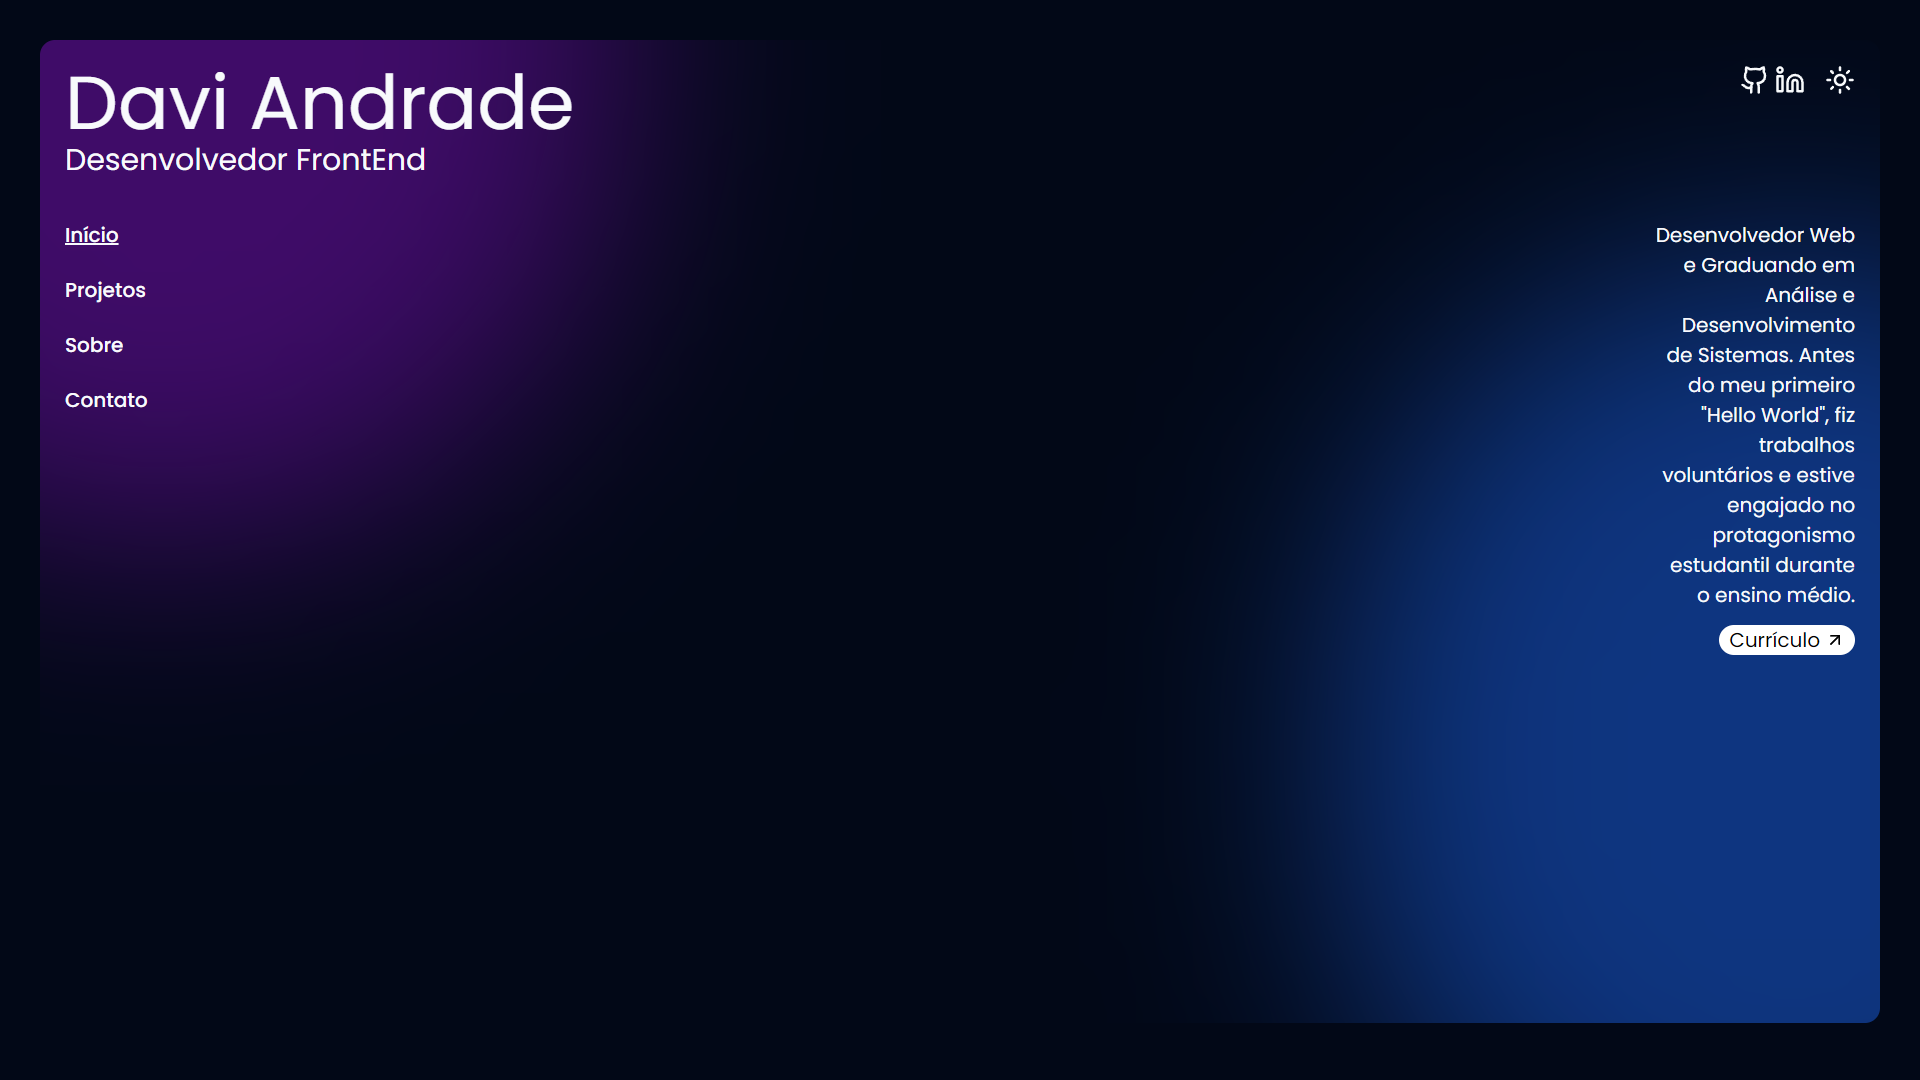
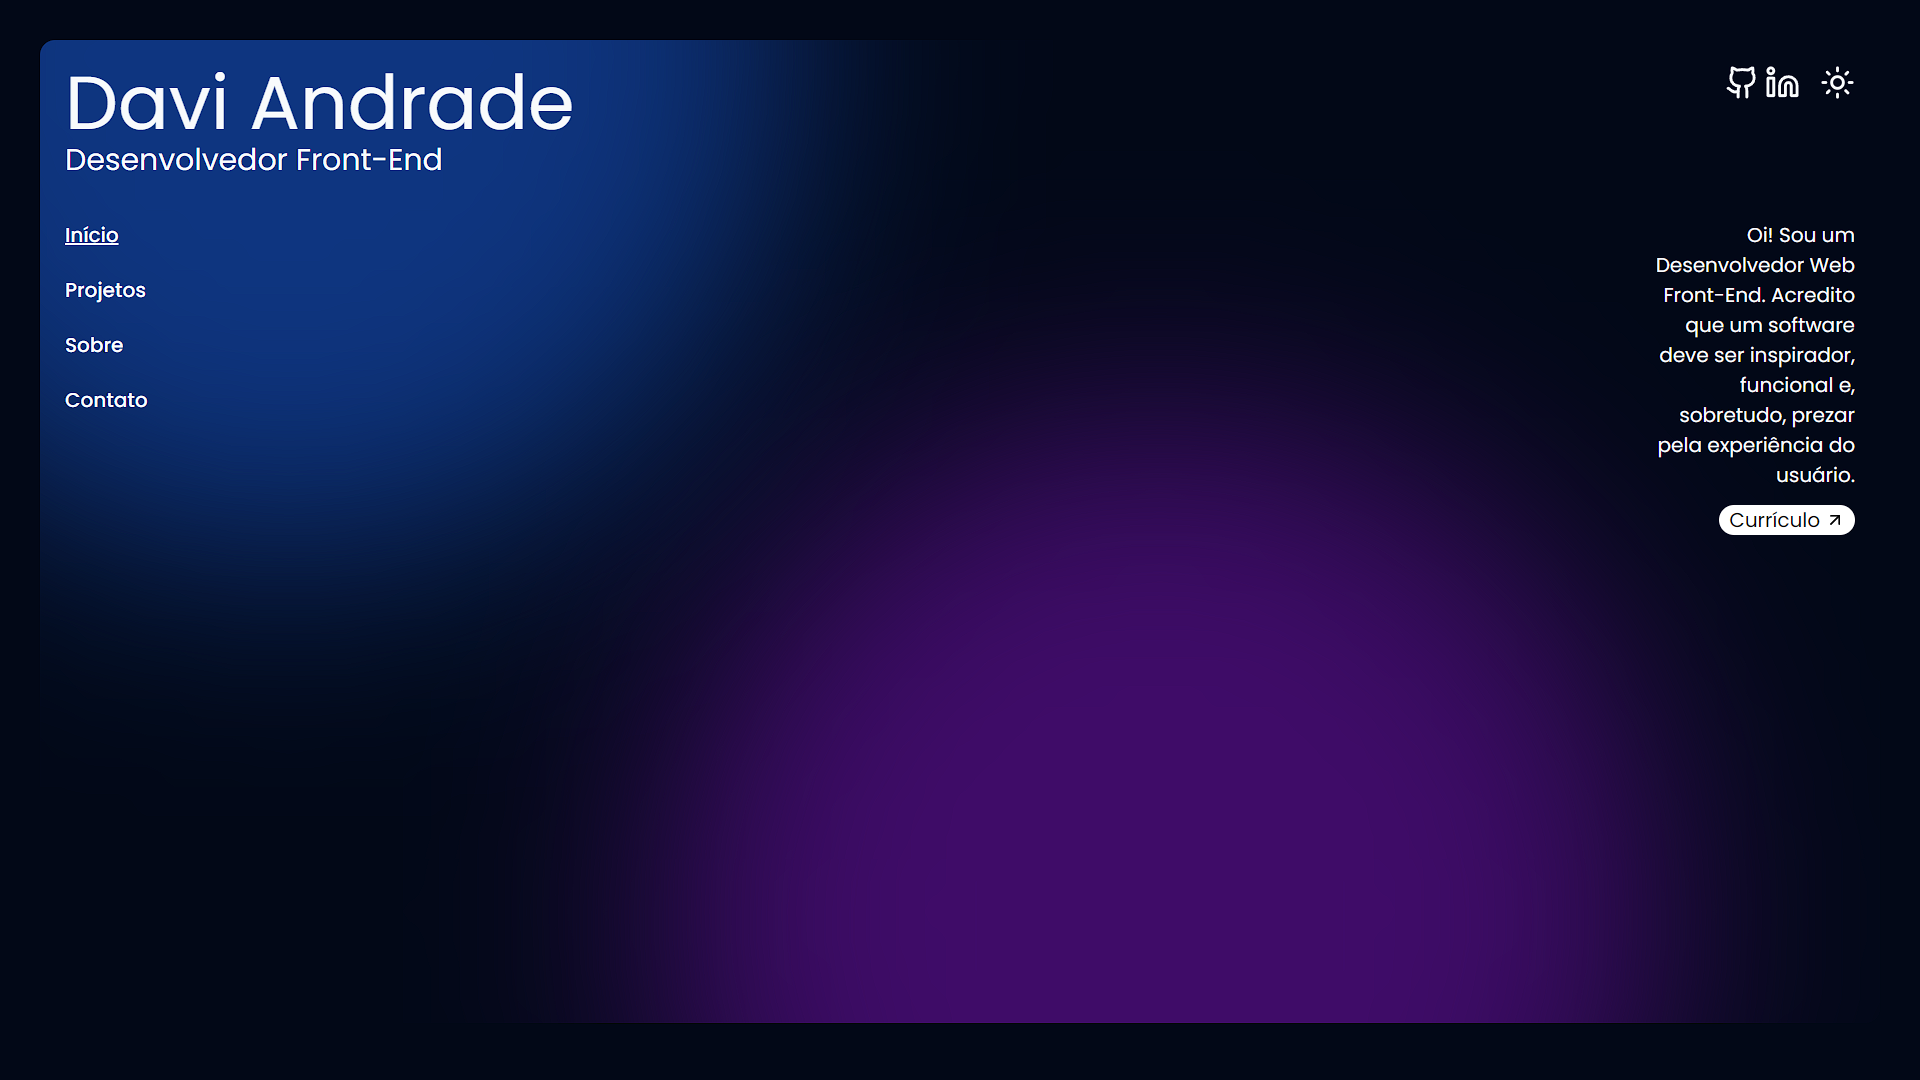
increase text size on mobile and change home text content

diff --git a/src/components/ProjectsList.tsx b/src/components/ProjectsList.tsx
@@ -89,7 +89,7 @@ export default function ProjectsList() {
   return (
     <>
       <div className="fadeIn font-poppinsRegular mt-8 flex h-full w-full flex-row items-end justify-end overflow-hidden md:mt-0 md:pt-0 lg:w-3/5">
-        <ScrollArea className="h-full md:w-3/4 md:pr-4">
+        <ScrollArea className="scroll h-full md:w-3/4 md:pr-4">
           {projects.map((project) => (
             <div className="flex flex-col" key={project.name}>
               {projects.indexOf(project) !== 0 ? (
@@ -104,20 +104,20 @@ export default function ProjectsList() {
               )}
 
               <div
-                className="card md:card-none md:hover:card flex h-fit w-full cursor-default flex-row space-x-5 rounded-xl p-2 transition-all"
+                className="card md:card-none md:hover:card flex h-fit w-full cursor-default flex-row space-x-5 rounded-xl p-4 transition-all md:p-2"
                 onMouseEnter={() => setProjectOnHover(project.name)}
                 onMouseLeave={() => setProjectOnHover("")}
               >
                 <div className=" flex w-full flex-col items-end justify-between space-y-2  md:w-[90%] md:space-y-4">
                   <div className="flex w-full flex-col items-end transition-all">
                     <header className="font-poppinsMedium flex w-full flex-row justify-between">
-                      <div className="text-sm md:text-base">{project.year}</div>
-                      <div className="flex text-end text-sm md:text-lg">
+                      <div className=" text-base">{project.year}</div>
+                      <div className="flex text-end text-lg text-sm">
                         {project.name}
                       </div>
                     </header>
 
-                    <div className="text-secondary text-right text-xs transition-all md:text-base">
+                    <div className="text-secondary text-right text-base transition-all">
                       <p className="transition-all">{project.description}</p>
                     </div>
                   </div>
@@ -125,7 +125,7 @@ export default function ProjectsList() {
                   <div className="flex flex-row flex-wrap justify-end gap-1 md:gap-2">
                     {project.technologies.map((tech) => (
                       <div key={tech}>
-                        <Badge className="badge transition-all md:text-xs">
+                        <Badge className="badge text-xs transition-all">
                           <p className="transition-all">{tech}</p>
                         </Badge>
                       </div>
@@ -136,7 +136,7 @@ export default function ProjectsList() {
                     {project.repositoryUrl ? (
                       <>
                         <Link
-                          className="flex cursor-pointer flex-row items-center text-right text-xs md:text-base"
+                          className="flex cursor-pointer flex-row items-center text-right text-base"
                           href={project.repositoryUrl}
                           target="_blank"
                           rel="noreferrer"
@@ -155,16 +155,14 @@ export default function ProjectsList() {
                         </Link>
                       </>
                     ) : (
-                      <p className="text-xs transition-all md:text-base">
-                        Em breve...
-                      </p>
+                      <p className="text-base transition-all">Em breve...</p>
                     )}
                     {project.liveUrl ? (
                       <Link
                         href={project.liveUrl}
                         target="_blank"
                         rel="noreferrer"
-                        className="flex cursor-pointer flex-row items-center text-right text-xs md:text-base"
+                        className="flex cursor-pointer flex-row items-center text-right text-base"
                         onMouseEnter={() => setLinkOnHover("live")}
                         onMouseLeave={() => setLinkOnHover("")}
                       >

diff --git a/src/components/Header.tsx b/src/components/Header.tsx
@@ -7,26 +7,26 @@ import ThemeSwitcher from "./ThemeSwitcher";
 
 export default function Header() {
   return (
-    <header className="font-poppinsRegular mb-8 flex w-full flex-row justify-between">
+    <header className="font-poppinsRegular mb-6 flex w-full flex-row justify-between md:mb-8">
       <div className="z-10 transition-all">
         <Link href={"/"} className="h-fit cursor-pointer">
-          <h1 className="text-2xl transition-all md:text-6xl">Davi Andrade</h1>
+          <h1 className="text-3xl transition-all md:text-6xl">Davi Andrade</h1>
         </Link>
-        <h2 className="cursor-default text-sm transition-all md:text-2xl">
-          Desenvolvedor FrontEnd
+        <h2 className="cursor-default text-base transition-all md:text-2xl">
+          Desenvolvedor Front-End
         </h2>
       </div>
 
       <div className="z-10 flex h-fit flex-row items-center space-x-3 md:space-x-4">
         <div key={"GitHub"} className="display flex flex-row space-x-1">
           <Link
-            className="h-fit"
+            className="h-fit w-full"
             key={"GitHub"}
             href="https://github.com/davi-andrade-js"
             target="_blank"
             rel="noreferrer"
           >
-            <Github className="w-5 cursor-pointer transition-all hover:text-neutral-500 md:w-6" />
+            <Github className="h-7 w-7 cursor-pointer transition-all hover:text-neutral-500" />
           </Link>
           <Link
             className="h-fit"
@@ -35,7 +35,7 @@ export default function Header() {
             target="_blank"
             rel="noreferrer"
           >
-            <Linkedin className="w-5 cursor-pointer transition-all hover:text-neutral-500 md:w-6" />
+            <Linkedin className="h-7 w-7 cursor-pointer transition-all hover:text-neutral-500" />
           </Link>
         </div>
 

diff --git a/src/app/(routes)/info/page.tsx b/src/app/(routes)/info/page.tsx
@@ -38,16 +38,16 @@ export default function Info() {
   return (
     <>
       <main className="fadeIn flex h-full flex-col justify-end md:flex-row md:justify-between">
-        <div className="font-poppinsRegular z-10 flex h-fit flex-col items-end justify-end space-y-4 text-base transition-all md:w-72 md:space-y-6">
+        <div className="font-poppinsRegular z-10 flex h-fit flex-col items-end justify-end space-y-4 text-base md:w-72 md:space-y-6">
           {skills.map((skill) => (
             <div key={skill.name} className="space-y-2 transition-all">
-              <h3 className="font-poppinsMedium text-end text-sm transition-all md:text-lg">
+              <h3 className="font-poppinsMedium text-end text-lg transition-all">
                 {skill.name}
               </h3>
               <div className="flex h-fit flex-row flex-wrap justify-end gap-1 md:gap-2">
                 {skill.techs.map((tech) => (
                   <div key={tech}>
-                    <Badge className="badge transition-all md:text-xs">
+                    <Badge className="badge text-xs transition-all">
                       <p className="transition-all">{tech}</p>
                     </Badge>
                   </div>

diff --git a/src/app/page.tsx b/src/app/page.tsx
@@ -4,9 +4,9 @@ import Resume from "@/components/Resume";
 export default function Home() {
   return (
     <>
-      <article className="fadeIn font-poppinsRegular z-10 flex cursor-default flex-col items-end space-y-3 text-end text-sm transition-all md:h-full md:text-base">
-        <p className="w-36 transition-all md:w-40">
-          {`Desenvolvedor Web e Graduando em Análise e Desenvolvimento de Sistemas. Antes do meu primeiro "Hello World", fiz trabalhos voluntários e estive engajado no protagonismo estudantil durante o ensino médio.`}
+      <article className="fadeIn font-poppinsRegular z-10 flex cursor-default flex-col items-end space-y-3 text-end text-base transition-all md:h-full">
+        <p className="w-40 transition-all">
+          {`Oi! Sou um Desenvolvedor Web Front-End. Acredito que um software deve ser inspirador, funcional e, sobretudo, prezar pela experiência do usuário.`}
         </p>
         <Resume />
       </article>

diff --git a/src/components/ThemeSwitcher.tsx b/src/components/ThemeSwitcher.tsx
@@ -36,12 +36,12 @@ export default function ThemeSwitcher() {
       <div className="z-10 h-fit cursor-pointer">
         {theme === "light" ? (
           <Moon
-            className={`h-fit w-5 transition-all hover:text-neutral-500 md:w-6 `}
+            className={`h-fit w-7 transition-all hover:text-neutral-500 md:w-6 `}
             onClick={() => setDarkMode()}
           />
         ) : (
           <Sun
-            className={`h-fit w-fit transition-all hover:text-neutral-500 `}
+            className={`h-fit w-7 transition-all hover:text-neutral-500 `}
             onClick={() => setLightMode()}
           />
         )}

diff --git a/src/app/(routes)/contact/page.tsx b/src/app/(routes)/contact/page.tsx
@@ -24,7 +24,7 @@ export default function Contact() {
   return (
     <>
       <main className="fadeIn z-10 flex h-full w-full items-end justify-end md:items-start">
-        <div className="font-poppinsRegular flex h-fit flex-col items-end justify-end text-sm transition-all md:w-40 md:text-base">
+        <div className="font-poppinsRegular flex h-fit flex-col items-end justify-end text-base transition-all md:w-40">
           <div className="flex flex-col items-end space-y-1">
             {contactInfo.map((info) => (
               <p key={info}>{info}</p>

diff --git a/src/components/Resume.tsx b/src/components/Resume.tsx
@@ -18,7 +18,7 @@ export default function Resume() {
       onMouseEnter={() => setOnHover(true)}
       onMouseLeave={() => setOnHover(false)}
     >
-      <p className="text-sm transition-all md:text-base">Currículo</p>
+      <p className="text-base transition-all">Currículo</p>
       <ArrowUpRight
         className={`ml-1 h-fit w-3 transition-all md:h-auto md:w-4 ${onHover && "pb-2"}`}
       />

diff --git a/src/components/Sidebar.tsx b/src/components/Sidebar.tsx
@@ -31,7 +31,7 @@ export default function Sidebar() {
   ];
 
   return (
-    <nav className="font-poppinsMedium flex w-24 flex-col space-y-4 text-sm transition-all md:space-y-5 md:text-base">
+    <nav className="font-poppinsMedium flex w-24 flex-col space-y-4 text-base transition-all md:space-y-5">
       {navItems.map((item) => (
         <Link
           key={item.name}

diff --git a/src/app/globals.css b/src/app/globals.css
@@ -95,8 +95,8 @@ body {
     --secondary: rgb(68 64 60);
     --secondary-foreground: 222.2 47.4% 11.2%;
 
-    --light-one-bg: rgba(138, 17, 203, 0.9);
-    --light-two-bg: rgba(19, 82, 201, 0.9);
+    --light-one-bg: rgba(148, 0, 211, 0.9);
+    --light-two-bg: rgba(0, 70, 201, 0.9);
 
     --badge-background: black;
     --card-background: rgba(255, 255, 255, 0.5);
